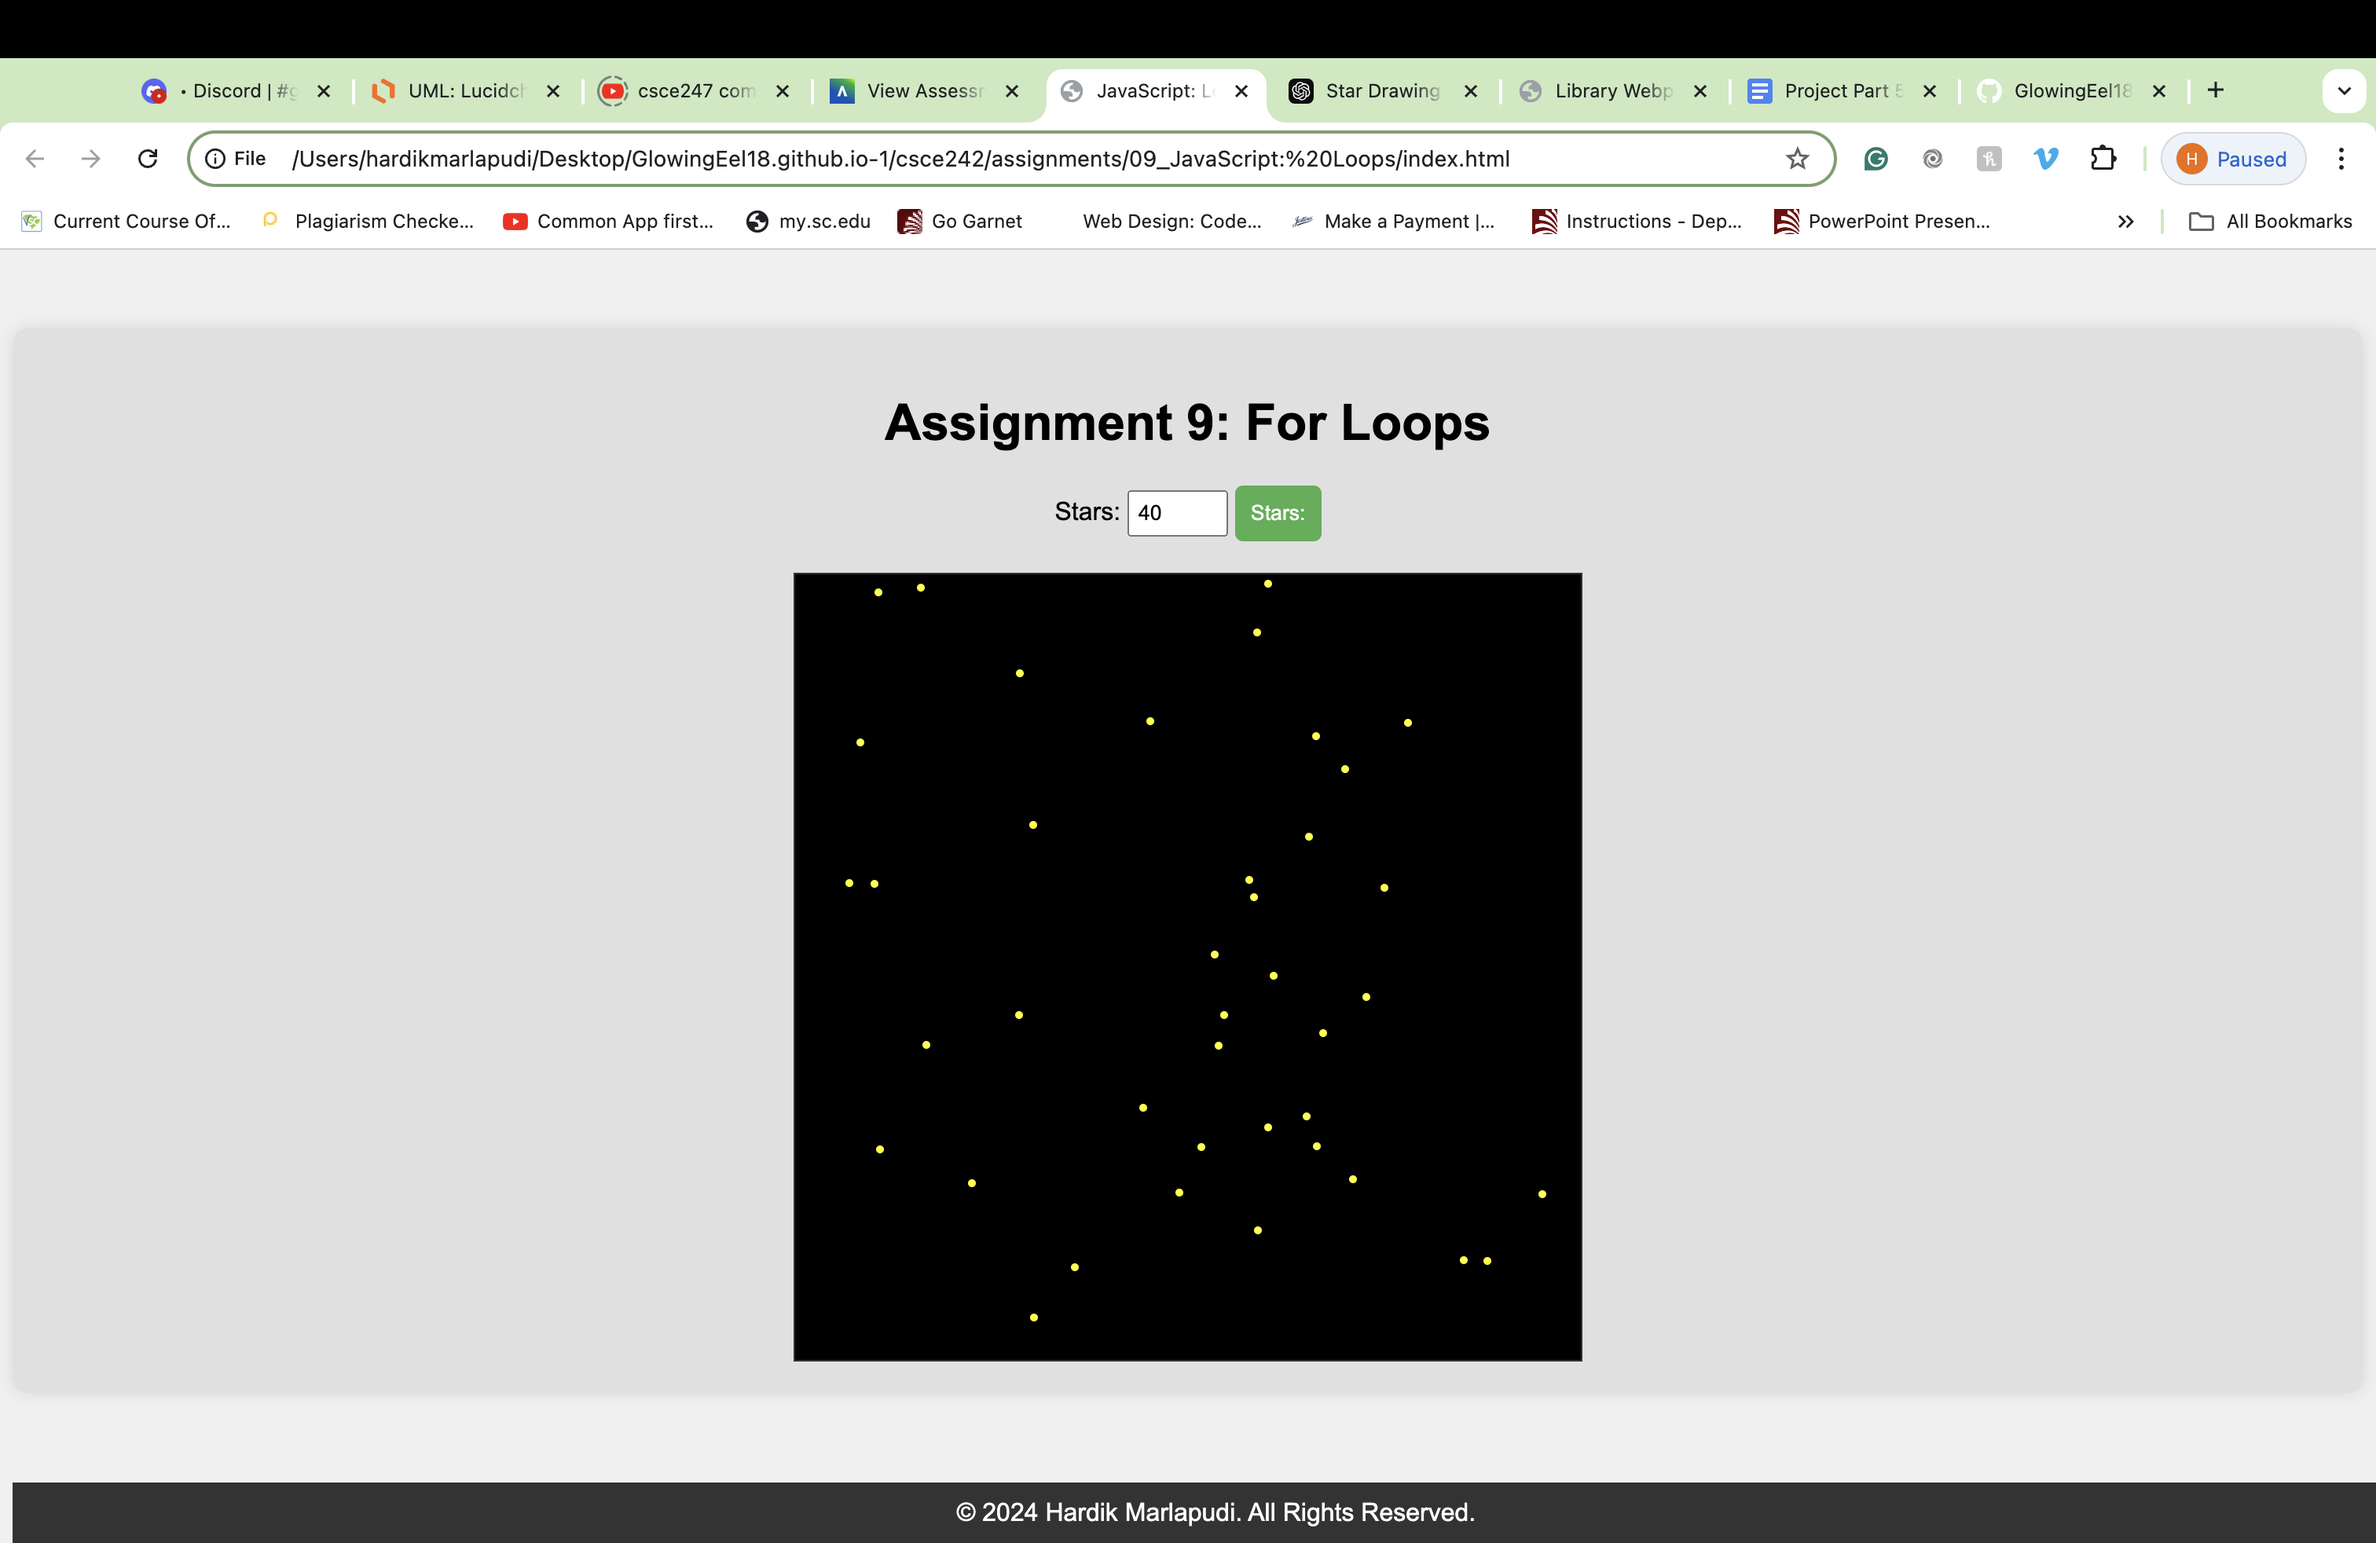
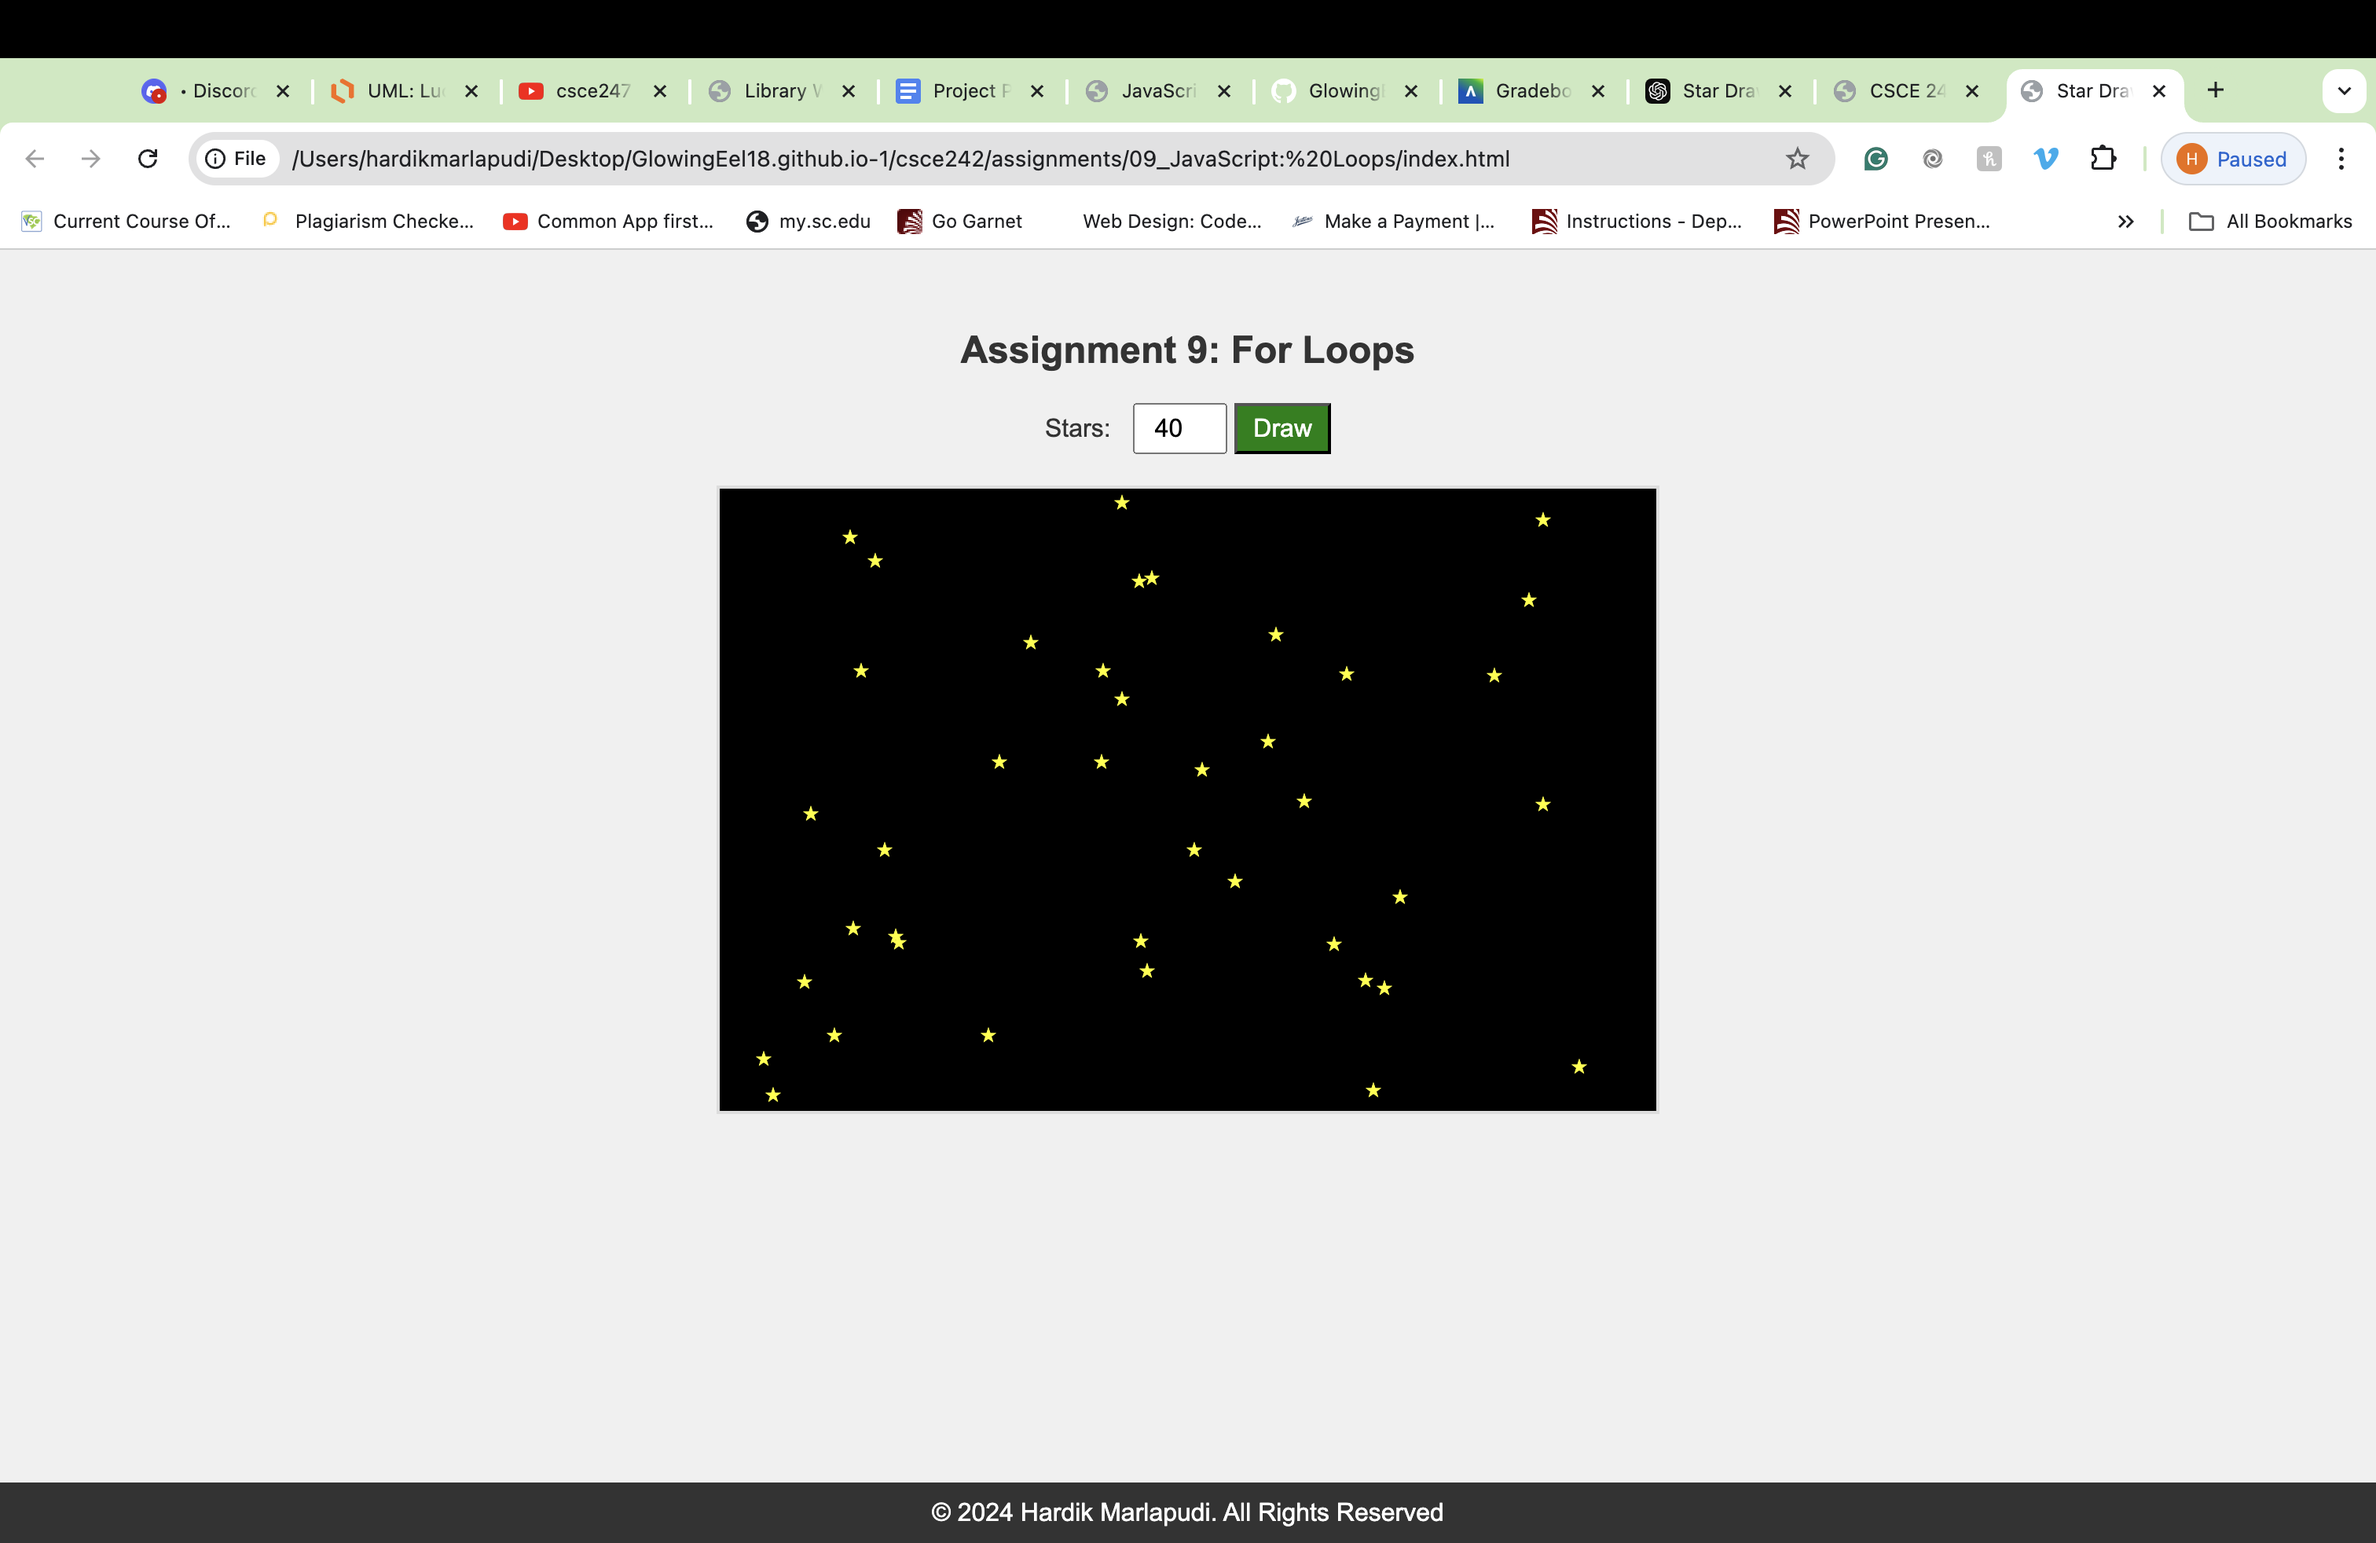
adding 09_JavaScript: Loops

diff --git a/csce242/assignments/09_JavaScript: Loops/index.js b/csce242/assignments/09_JavaScript: Loops/index.js
@@ -1,29 +1,37 @@
 function drawStars() {
-    const numStars = document.getElementById('stars').value;
-    const canvas = document.getElementById('canvas');
-    const error = document.getElementById('error');
-
-    canvas.innerHTML = '';
-    error.innerHTML = '';
-
-    if(numStars <= 0){
-        error.textContent = 'Invalid Input';
+    const starCount = document.getElementById('starCount').value;
+    const starCanvas = document.getElementById('starCanvas');
+    const errorElement = document.getElementById('error');
+    
+    // Clear canvas and error message
+    starCanvas.innerHTML = '';
+    errorElement.textContent = '';
+  
+    // Validate input
+    if (starCount <= 0 || isNaN(starCount)) {
+      errorElement.textContent = '* Invalid Input';
+      return;
     }
-
-    for(let i = 0; i < numStars; i++) {
-        const star = document.createElement('div');
-        star.classList.add('star');
-
-        const x = Math.random() * (canvas.clientWidth - 5);
-        const y = Math.random() * (canvas.clientHeight - 5);
-
-        star.style.left = `${x}px`;
-        star.style.top = `${y}px`;
-
-        star.addEventListener('click', () => {
-            alert(`You clicked on star #${i + 1}`);
-        });
-
-        canvas.appendChild(star);
+  
+    // Draw stars
+    for (let i = 0; i < starCount; i++) {
+      const star = document.createElement('div');
+      star.classList.add('star');
+      star.textContent = '★';
+  
+      // Random position
+      const xPos = Math.floor(Math.random() * (starCanvas.offsetWidth - 20));
+      const yPos = Math.floor(Math.random() * (starCanvas.offsetHeight - 20));
+  
+      star.style.left = `${xPos}px`;
+      star.style.top = `${yPos}px`;
+  
+      // Add click event to show star number
+      star.addEventListener('click', () => {
+        alert(`Star ${i + 1}`);
+      });
+  
+      starCanvas.appendChild(star);
     }
-}
+  }
+  

diff --git a/csce242/assignments/09_JavaScript: Loops/styles.css b/csce242/assignments/09_JavaScript: Loops/styles.css
@@ -1,64 +1,73 @@
+* {
+    margin: 0;
+    padding: 0;
+    box-sizing: border-box;
+}
+
 body {
-    font-family: Arial, Helvetica, sans-serif;
+    font-family: Arial, sans-serif;
     background-color: #f0f0f0;
-    text-align: center;
+    color: #333;
 }
 
 .container {
-    width: auto;
+    max-width: 600px;
     margin: 50px auto;
-    padding: 20px;
-    background-color: #e0e0e0;
-    border-radius: 10px;
-    box-shadow: 0 0 10px rgba(0, 0, 0, 0.1);
+    text-align: center;
 }
 
-.controls {
+h1 {
+    font-size: 24px;
     margin-bottom: 20px;
 }
 
+.input-section {
+    margin-bottom: 20px;
+}
+
+label {
+    margin-right: 10px;
+}
+
 input {
-    width: 50px;
+    width: 60px;
     padding: 5px;
+    font-size: 16px;
+    text-align: center;
 }
 
 button {
-    padding: 10px;
-    background-color: #4CAF50;
-    color: white;
-    border: none;
-    border-radius: 5px;
+    padding: 5px 10px;
+    font-size: 16px;
     cursor: pointer;
-}
-
-button:hover{
-    background-color: #4CAF50;
-}
-
-.canvas {
-    width: 500px;
-    height: 500px;
-    background-color: black;
-    margin: 0 auto;
-    position: relative;
-    border: 1px solid #333;
+    background-color: green;
+    color: white;
 }
 
 .error {
     color: red;
+    font-size: 14px;
+    margin-top: 10px;
+}
+
+.canvas {
+    width: 100%;
+    height: 400px;
+    background-color: #000;
+    position: relative;
+    border: 2px solid #ddd;
 }
 
 .star {
     position: absolute;
-    width: 5px;
-    height: 5px;
-    background-color: yellow;
-    border-radius: 50%;
+    color: yellow;
+    font-size: 10px;
 }
 
 footer {
     position: fixed;
     bottom: 0;
+    left: 0;
     width: 100%;
     background-color: #333;
     color: white;

diff --git a/csce242/assignments/09_JavaScript: Loops/index.html b/csce242/assignments/09_JavaScript: Loops/index.html
@@ -1,27 +1,25 @@
 <!DOCTYPE html>
 <html lang="en">
 <head>
-    <meta charset="UTF-8">
-    <meta name="viewport" content="width=device-width, initial-scale=1.0">
-    <link rel="stylesheet" href="styles.css">
-    <title>JavaScript: Loops</title>
+  <meta charset="UTF-8">
+  <meta name="viewport" content="width=device-width, initial-scale=1.0">
+  <title>Star Drawer</title>
+  <link rel="stylesheet" href="styles.css">
 </head>
 <body>
-    <div class="container">
-        <h1>Assignment 9: For Loops</h1>
-        <div class="controls">
-            <label for="stars">Stars:</label>
-            <input type="number" id="stars" min="1">
-            <button onclick="drawStars()">Stars:</button>
-            <p id="error" class="error"></p>
-        </div>
-        <div class="canvas" id="canvas"></div>
+  <div class="container">
+    <h1>Assignment 9: For Loops</h1>
+    <div class="input-section">
+      <label for="starCount">Stars:</label>
+      <input type="number" id="starCount" min="1">
+      <button onclick="drawStars()">Draw</button>
+      <p id="error" class="error"></p>
     </div>
+    <div id="starCanvas" class="canvas"></div>
+  </div>
 
-    <footer>
-        &copy; 2024 Hardik Marlapudi. All Rights Reserved.
-    </footer>
-    
-    <script src="index.js"></script>
+  <footer> &copy 2024 Hardik Marlapudi. All Rights Reserved</footer>
+
+  <script src="index.js"></script>
 </body>
 </html>
